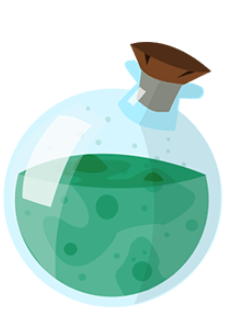
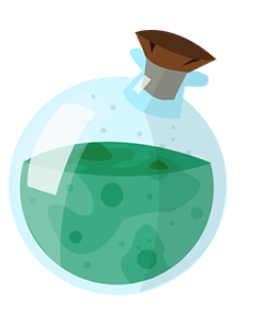
Use clipping with sprites

diff --git a/image_sprite_animation.html b/image_sprite_animation.html
@@ -1,6 +1,7 @@
 <body>
     <canvas id="canvas" width="1500" height="800"></canvas>
     <img id="myImage" src="myimage.png" style="display: none;">
+    <img id="sprite_sheets" src="sprite_sheets.png" style="display: none;">
 </body>
 <script>
     let canvas, context;
@@ -9,22 +10,37 @@
     context = canvas.getContext("2d");
 
     //Draw an image on the canvas
+    /*window.onload = function () {
+        let img1 = document.getElementById("myImage");
+        context.drawImage(img1, 50, 30);
+    }*/
+
+    /* let img2 = new Image();
+     img2.onload = function () {
+         context.drawImage(img2, 10, 10,100,200);
+         context.drawImage(img2, 200, 10,img2.width/2, img2.height/2);
+ 
+         context.imageSmoothingEnabled = true;
+         context.imageSmoothingQuality = 'high';
+         context.drawImage(img2, 50, 30, img2.width * 2.5, img2.height * 2.5); 
+         
+         //Clip and resize simultaneously
+         context.drawImage(img2, 100, 40, 200, 100, 25, 30, 200, 50);
+     };
+     img2.src = 'https://cdn.phototourl.com/free/2026-06-05-6e0f9cbd-f5be-4c71-bba0-60dda8527962.png';*/
+
+    //Use clipping with sprites
     window.onload = function () {
-        /*let img1 = document.getElementById("myImage");
-        context.drawImage(img1, 50, 30);*/
+        let sprite = document.getElementById("sprite_sheets");
+        // context.drawImage(sprite, 50, 30);
+        // Define the size of a frame
+        let frameWidth = 50;
+        let frameHeight = 61;
 
-        //Load an image from a URL
-    }
-    let img2 = new Image();
-    img2.onload = function () {
-        /*context.drawImage(img2, 10, 10,100,200);
-        context.drawImage(img2, 200, 10,img2.width/2, img2.height/2);*/
+        // Rows and columns start from 0
+        let row = 1;
+        let column = 3;
 
-        /*context.imageSmoothingEnabled = true;
-        context.imageSmoothingQuality = 'high';
-        context.drawImage(img2, 50, 30, img2.width * 2.5, img2.height * 2.5); */
-
-        context.drawImage(img2, 100, 40, 200, 100, 25, 30, 200, 50);
+        context.drawImage(sprite, column * frameWidth, row * frameHeight, frameWidth, frameHeight, 10, 30, frameWidth, frameHeight);
     };
-    img2.src = 'https://cdn.phototourl.com/free/2026-06-05-6e0f9cbd-f5be-4c71-bba0-60dda8527962.png';
 </script>